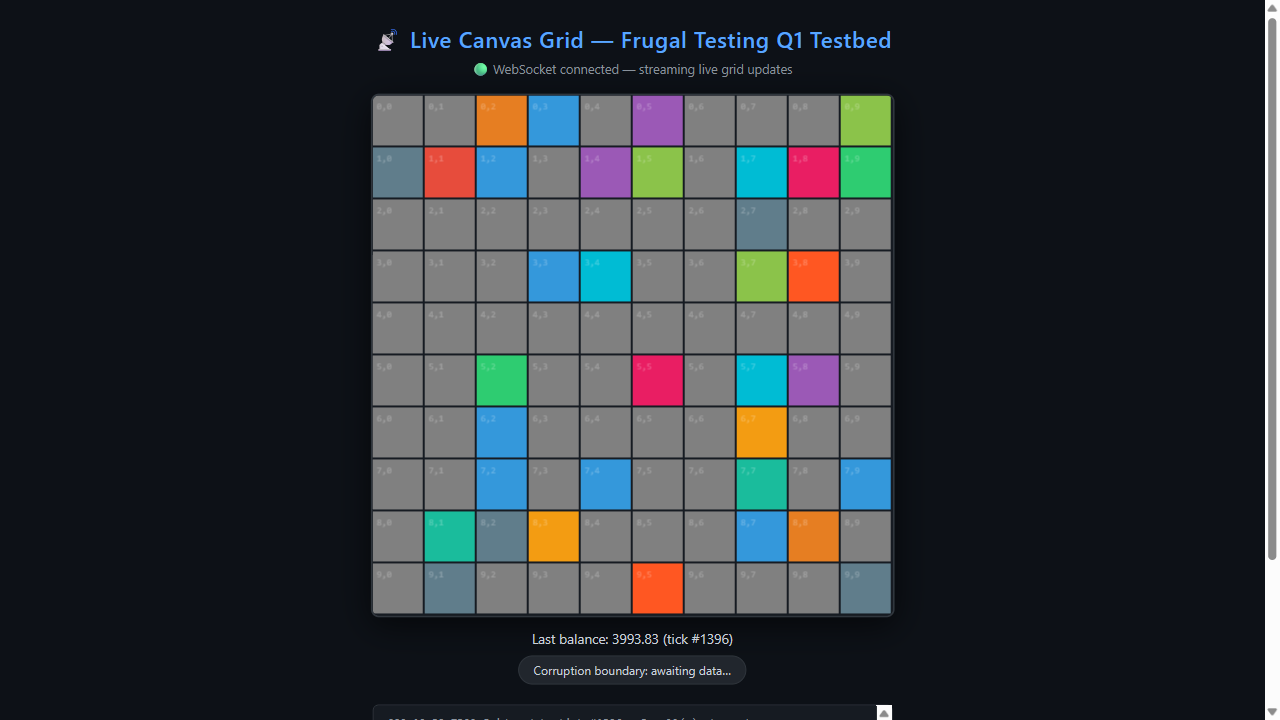
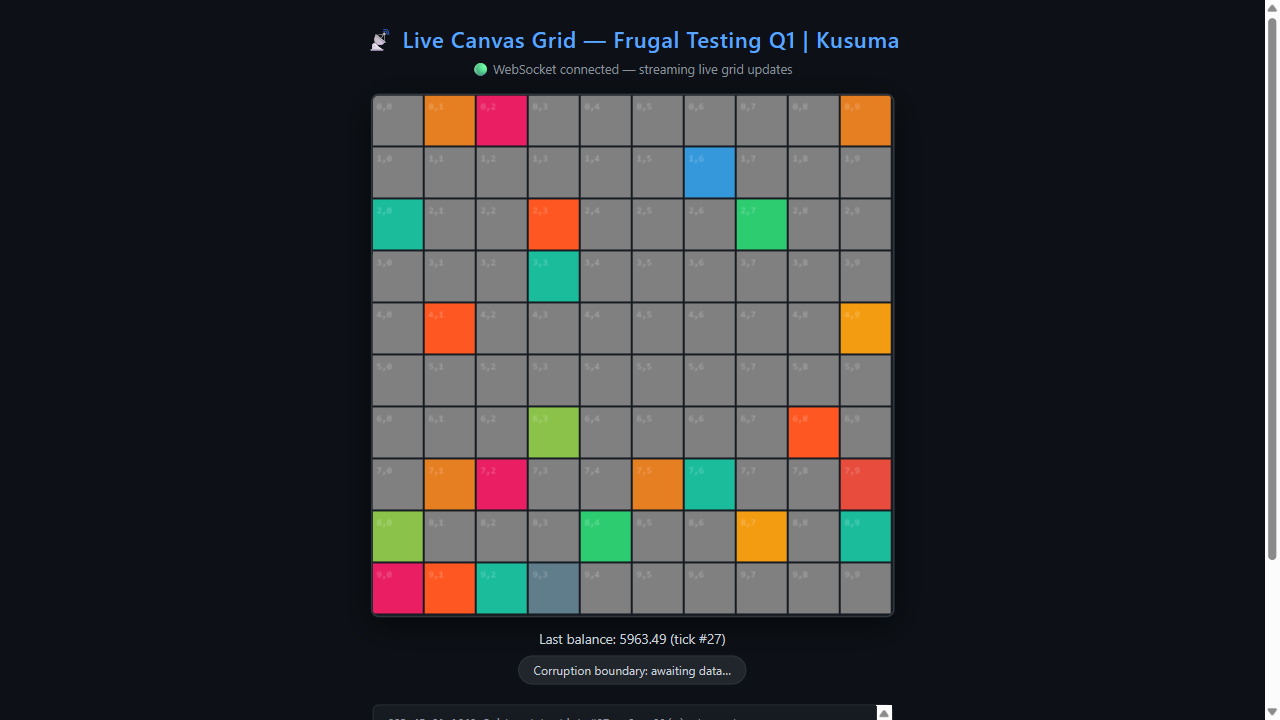
Complete Q1 canvas race automation

diff --git a/Q1_canvas_race/canvas_server/index.html b/Q1_canvas_race/canvas_server/index.html
@@ -3,7 +3,7 @@
 <head>
   <meta charset="UTF-8" />
   <meta name="viewport" content="width=device-width, initial-scale=1.0" />
-  <title>Live Canvas Grid — Frugal Testing Q1 Testbed</title>
+  <title>Live Canvas Grid — Frugal Testing Q1 | Kusuma</title>
   <style>
     * { margin: 0; padding: 0; box-sizing: border-box; }
 
@@ -82,7 +82,7 @@
   </style>
 </head>
 <body>
-  <h1>📡 Live Canvas Grid — Frugal Testing Q1 Testbed</h1>
+  <h1>📡 Live Canvas Grid — Frugal Testing Q1 | Kusuma</h1>
   <div id="status-bar">Connecting to WebSocket stream…</div>
 
   <div id="canvas-wrapper">
@@ -179,27 +179,14 @@
       if (logPanel.children.length > 100) logPanel.lastChild.remove();
     }
 
-    // ── WebSocket ──────────────────────────────────────────────────────────────
+    // ── WebSocket with auto-reconnect (Fibonacci backoff) ─────────────────────
     const statusBar = document.getElementById('status-bar');
-    const ws        = new WebSocket(`ws://${location.host}`);
+    let   ws;
+    let   reconnectAttempts = 0;
+    const MAX_RECONNECT      = 5;
+    const RECONNECT_DELAYS   = [1000, 1000, 2000, 3000, 5000, 8000]; // Fibonacci ms
 
-    ws.binaryType = 'arraybuffer';
-
-    ws.onopen = () => {
-      statusBar.textContent = '🟢 WebSocket connected — streaming live grid updates';
-      log('WebSocket connected', 'ok');
-    };
-
-    ws.onclose = () => {
-      statusBar.textContent = '🔴 WebSocket disconnected';
-      log('WebSocket disconnected', 'error');
-    };
-
-    ws.onerror = (e) => {
-      log(`WebSocket error: ${e}`, 'error');
-    };
-
-    ws.onmessage = (event) => {
+    function handleMessage(event) {
       let data;
       try {
         data = JSON.parse(event.data);
@@ -235,12 +222,51 @@
         document.getElementById('corruption-status').style.borderColor = '#3fb950';
         log(`Balance ack: ${data.balance}`, 'ok');
       }
-    };
+    }
+
+    function connectWS() {
+      // ── FIX 1: Auto-select wss:// on HTTPS pages (required by browsers) ──────
+      const wsProtocol = location.protocol === 'https:' ? 'wss:' : 'ws:';
+      ws = new WebSocket(`${wsProtocol}//${location.host}`);
+      ws.binaryType = 'arraybuffer';
+
+      ws.onopen = () => {
+        reconnectAttempts = 0;
+        statusBar.textContent = '🟢 WebSocket connected — streaming live grid updates';
+        log('WebSocket connected', 'ok');
+        // Keep global reference fresh so __sendMessage always uses current socket
+        window.__ws = ws;
+      };
+
+      // ── FIX 2: Fibonacci reconnect on close ──────────────────────────────────
+      ws.onclose = () => {
+        statusBar.textContent = '🔴 WebSocket disconnected — reconnecting…';
+        log('WebSocket disconnected', 'error');
+        if (reconnectAttempts < MAX_RECONNECT) {
+          const delay = RECONNECT_DELAYS[reconnectAttempts] || 8000;
+          log(`Reconnect attempt ${reconnectAttempts + 1}/${MAX_RECONNECT} in ${delay}ms…`, 'warn');
+          reconnectAttempts++;
+          setTimeout(connectWS, delay);
+        } else {
+          statusBar.textContent = '🔴 WebSocket permanently disconnected (max retries reached)';
+          log('Max reconnect attempts reached', 'error');
+        }
+      };
+
+      ws.onerror = (e) => {
+        log(`WebSocket error (attempt ${reconnectAttempts + 1})`, 'error');
+      };
+
+      ws.onmessage = handleMessage;
+    }
+
+    // Kick off initial connection
+    connectWS();
 
     // ── Allow automation to send messages back through the WS ─────────────────
     window.__sendMessage = function(payload) {
-      if (ws.readyState === WebSocket.OPEN) {
-        ws.send(JSON.stringify(payload));
+      if (window.__ws && window.__ws.readyState === WebSocket.OPEN) {
+        window.__ws.send(JSON.stringify(payload));
         return true;
       }
       return false;

diff --git a/Q1_canvas_race/canvas_server/server.js b/Q1_canvas_race/canvas_server/server.js
@@ -137,7 +137,9 @@ wss.on('connection', (ws, req) => {
   ws.on('error', (err) => console.error('[WS] Error:', err.message));
 });
 
-server.listen(PORT, () => {
-  console.log(`\n✅  Canvas Streaming Server running at http://localhost:${PORT}`);
-  console.log(`✅  WebSocket endpoint:          ws://localhost:${PORT}\n`);
+// Bind to 0.0.0.0 so the server accepts connections from all network interfaces
+// (required when running behind a reverse proxy or in a cloud environment)
+server.listen(PORT, '0.0.0.0', () => {
+  console.log(`\n✅  Canvas Streaming Server running at http://0.0.0.0:${PORT}`);
+  console.log(`✅  WebSocket endpoint:          ws://0.0.0.0:${PORT}\n`);
 });

diff --git a/Q1_canvas_race/automation/test_canvas.py b/Q1_canvas_race/automation/test_canvas.py
@@ -45,7 +45,9 @@ logging.basicConfig(
 )
 log = logging.getLogger("Q1-Canvas")
 
-TARGET_URL = "http://localhost:3001"
+import os
+
+TARGET_URL = os.environ.get("Q1_TARGET_URL", "http://localhost:3001")
 
 # ---- Spec 1: Fibonacci delay sequence (ms), capped at 8000 ------------------
 def fibonacci_delays(cap_ms: int = 8000):
@@ -301,7 +303,7 @@ async def inject_corrupted_balance(page: Page) -> dict:
 
 async def main():
     log.info("=" * 70)
-    log.info("  Q1 -- Canvas Race Interception Automation Starting")
+    log.info("  Q1 -- Canvas Race Interception | Kusuma")
     log.info("=" * 70)
 
     async with async_playwright() as p:
@@ -334,13 +336,14 @@ async def main():
 
         # ---- Navigate -------------------------------------------------------
         log.info(f"[Nav] Opening {TARGET_URL}")
-        await page.goto(TARGET_URL, wait_until="domcontentloaded")
+        await page.goto(TARGET_URL, wait_until="networkidle", timeout=30000)
         log.info("[Nav] Page loaded -- canvas grid initialising (all cells gray)")
 
         # Wait for WS connection (DOM-event-driven, not a sleep)
         await page.wait_for_function(
             "() => document.getElementById('status-bar').textContent.includes('connected')",
-            timeout=10000
+            timeout=30000,
+            polling=500,
         )
         log.info("[Nav] [OK] WebSocket confirmed connected")
 
